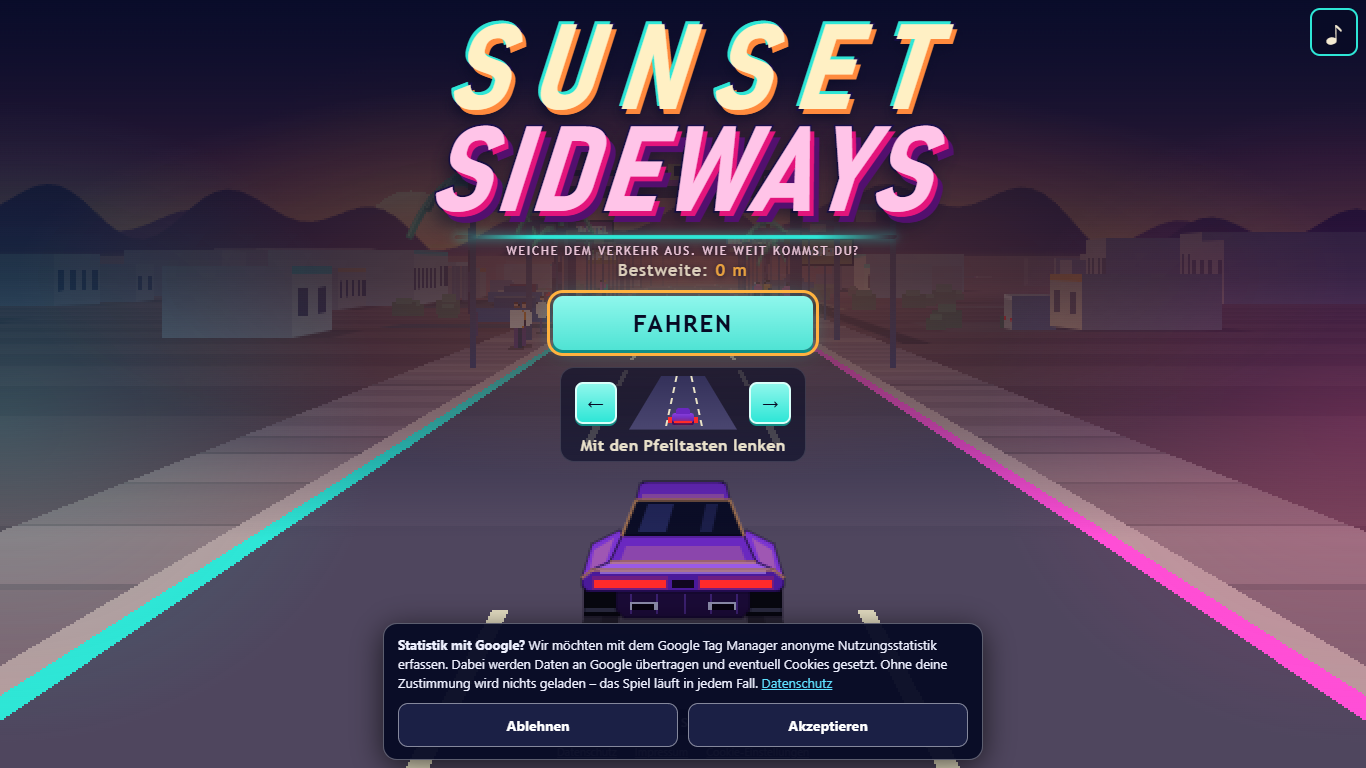
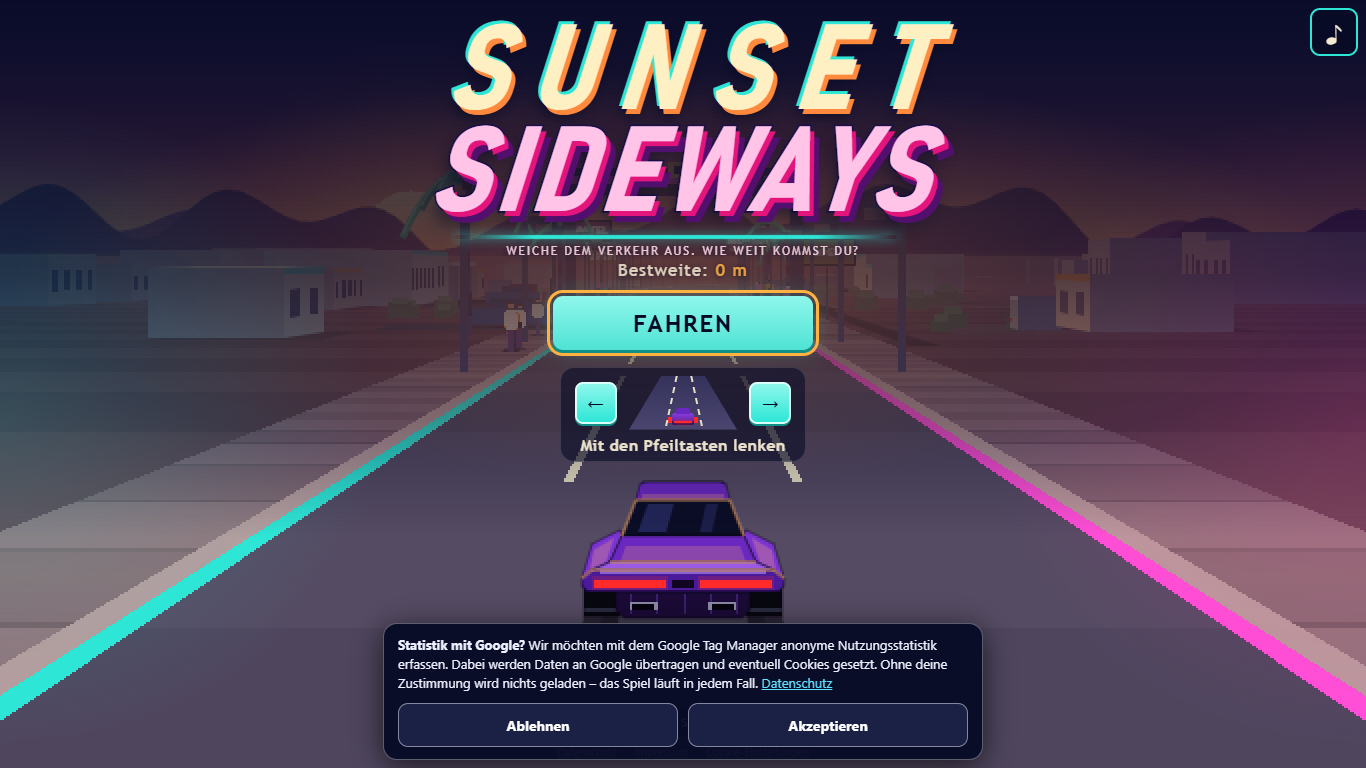
Begegnungen: Lkw, versetzte Baustelle, Pickup-Umweg; Hinweis am ersten Hindernis; Abnahmeskripte

diff --git a/src/gen/generator.ts b/src/gen/generator.ts
@@ -8,7 +8,13 @@ export interface GenWorld {
   s: number; t: number; obstacles: Obstacle[]; pickups: Pickup[]; nextId: number;
 }
 
-type Pattern = 'first' | 'single' | 'wall2' | 'stagger' | 'slalom' | 'weave' | 'chain';
+/**
+ * Begegnungen mit eigener Entscheidung:
+ * - truck: langsamer, breiter Lkw in einer Spur – überholen, Fluchtweg früh lesbar.
+ * - works: versetzte Baustelle, zwei Absperrungsreihen (zwei Entscheidungen), danach Zeit zum Neuausrichten.
+ * - detour: einfaches Hindernis plus Pickup in einer anderen Spur – der Umweg lohnt, ist aber freiwillig.
+ */
+export type Pattern = 'first' | 'single' | 'wall2' | 'stagger' | 'slalom' | 'weave' | 'chain' | 'truck' | 'works' | 'detour';
 type Group = 'fast' | 'mid' | 'slow';
 /** Tempoklasse einer Spur: statischer Block oder Verkehr mit festem Tempo (Lkw nur in der langsamen Klasse). */
 type LaneClass = 'static' | Group;
@@ -26,7 +32,7 @@ interface Candidate { objs: PlannedObj[]; gates: Gate[]; rows: number; endA: num
 
 export interface GenStat { pattern: Pattern; mult: number; fallback: boolean; anchor: number; gates: Gate[] }
 
-export interface GenOptions { record?: boolean; startS?: number }
+export interface GenOptions { record?: boolean; startS?: number; /** Nur die ursprünglichen Muster (feste Sprint-Aufnahme). */ classic?: boolean }
 
 export class Generator {
   private rng: () => number;
@@ -39,6 +45,8 @@ export class Generator {
   private queue: PickupType[] = [];
   private lastType: PickupType | null = null;
   private pickupCount = 0;
+  private curPat: Pattern = 'single';
+  private curLane = -1;
   /** Das erste Angebot jedes Versuchs ist Fliegen (ab 550 m nach dem ersten Ausweichmanöver). */
   private firstDone = false;
   readonly log: GenStat[] = [];
@@ -94,6 +102,8 @@ export class Generator {
   private pickPattern(t: number, km: number): Pattern {
     const f = (x: number) => Math.max(0, Math.min(1, x));
     const opts: [Pattern, number][] = [['single', 45 * (1 - 0.7 * f(km / 8))], ['stagger', 40]];
+    if (!this.opts.classic && t >= 6 && W('truck') > 0 && B.traffic.slow > 0) opts.push(['truck', 34]);
+    if (!this.opts.classic && t >= 14 && statics().length) opts.push(['works', 28]);
     if (t >= 12) opts.push(['wall2', 25]);
     if (t >= 20) opts.push(['slalom', 25 + 25 * f(km / 4)]);
     if (t >= 35) opts.push(['weave', 20 + 45 * f(km / 6)]);
@@ -110,7 +120,8 @@ export class Generator {
     const c = 3 - a - b;
     switch (p) {
       case 'first': return [[1]];                       // Mitte blockiert: links und rechts sind frei
-      case 'single': return [[a]];
+      case 'single': case 'truck': case 'detour': return [[a]];
+      case 'works': return [[a], [b]];
       case 'wall2': return [[b, c]];
       case 'stagger': return [[a], [b]];
       case 'slalom': {
@@ -155,6 +166,8 @@ export class Generator {
   private pickClass(pat: Pattern): LaneClass {
     const st = statics();
     if (pat === 'first') return st.length ? 'static' : (this.pickGroup() ?? 'static');
+    if (pat === 'truck' && W('truck') > 0) return 'slow';
+    if (pat === 'works' && st.length) return 'static';
     const wantStatic = this.rng() >= 0.65;
     if (wantStatic && st.length) return 'static';
     return this.pickGroup() ?? 'static';
@@ -162,7 +175,7 @@ export class Generator {
 
   private build(w: GenWorld, pat: Pattern, anchor: number): Candidate | null {
     const p = this.plan(w, anchor);
-    const rowGap = (B.gen.rowBase + B.gen.rowGain * Math.exp(-p.tArr / B.gen.rowTau)) * p.vNom * (pat === 'slalom' ? 0.95 : 1);
+    const rowGap = (B.gen.rowBase + B.gen.rowGain * Math.exp(-p.tArr / B.gen.rowTau)) * p.vNom * (pat === 'slalom' ? 0.95 : pat === 'works' ? 1.35 : 1);
     const rows = this.rowsFor(pat);
     const cls = this.laneClasses(w);
     const L = B.player.len;
@@ -176,11 +189,12 @@ export class Generator {
         used.add(lane);
         if (cls[lane] === null) cls[lane] = this.pickClass(pat);
         const lc = cls[lane] as LaneClass;
+        if ((pat === 'works' && lc !== 'static') || (pat === 'truck' && lc !== 'slow')) { bad = true; return; }   // reine Begegnung: sonst anderes Muster wählen
         const st = statics();
         const kinds = lc === 'static' ? (st.length ? st : (['baken'] as ObjKind[])) : GROUP_KINDS[lc];
         const picked = lc === 'static' ? kinds[this.int(kinds.length)] : this.pickKind(kinds);
         // Erste Begegnung (Mitte blockiert): immer die breite Absperrung – sie ist im Bild weit früher erkennbar als eine schmale Bake (0,9 m)
-        const kind = pat === 'first' && lc === 'static' && kinds.includes('barrier') ? 'barrier' : picked;
+        const kind = (pat === 'first' || pat === 'works') && lc === 'static' && kinds.includes('barrier') ? 'barrier' : pat === 'truck' && lc === 'slow' && kinds.includes('truck') ? 'truck' : picked;
         const def = KINDS[kind];
         const x = laneX(lane);
         const half = def.w / 2 + B.player.width / 2 + B.gen.blockMargin;
@@ -219,6 +233,8 @@ export class Generator {
       const tArr = this.plan(w, base + gap0).tArr;
       const km = (base + gap0) / 1000;
       const pats = [this.pickPattern(tArr, km), this.pickPattern(tArr, km), 'single' as Pattern];
+      // Ist ein Power-up fällig, wird die Begegnung öfter zum freiwilligen Umweg (Hindernis plus Pickup in einer anderen Spur)
+      if (!this.opts.classic && this.firstDone && B.pickups.freq > 0 && tArr >= this.nextPickupT && this.rng() < 0.55 && this.queue[0] !== 'magnet') pats[0] = 'detour';
       // Ist das Magnetfeld an der Reihe, braucht die Begegnung mehr Vorlauf (Magnet-Pickup und Folge-Pickup davor)
       if (this.firstDone && this.queue.length === 0) this.refillQueue();
       const mults = this.firstDone && tArr >= this.nextPickupT && this.queue[0] === 'magnet' ? [1.9, 2.4, 3.5] : B.gen.mults;
@@ -246,11 +262,12 @@ export class Generator {
     for (const o of c.objs) {
       w.obstacles.push({ id: w.nextId++, kind: o.kind, x: laneX(o.lane), z: o.z, vz: o.vz, hit: false, knockT: 0, knockVx: 0 });
     }
+    this.curPat = pat; this.curLane = c.objs[0]?.lane ?? -1;
     const pk = this.placePickup(w, c, anchor);
     if (pk) r = pk;
     this.reach = r.reach;
     this.sEnd = r.sEnd;
-    this.lastEnd = c.endA;
+    this.lastEnd = c.endA + (pat === 'works' ? 0.9 * this.plan(w, c.endA).vNom : 0);     // nach der Baustelle: Zeit zum Neuausrichten
     this.encounters++;
     if (this.opts.record) this.log.push({ pattern: pat, mult, fallback: mult >= 5, anchor, gates: c.gates });
   }
@@ -319,8 +336,9 @@ export class Generator {
     const order: PickupType[] = this.firstDone ? this.queue : ['glide'];
     for (let qi = 0; qi < order.length; qi++) {
       const type = order[qi];
-      const lanes = [0, 1, 2];
+      let lanes = [0, 1, 2];
       for (let i = lanes.length - 1; i > 0; i--) { const j = this.int(i + 1); [lanes[i], lanes[j]] = [lanes[j], lanes[i]]; }
+      if (this.curPat === 'detour') lanes = lanes.filter((l) => l !== this.curLane);      // der Umweg liegt neben dem Hindernis, nicht in dessen Spur
       for (const lane of lanes) {
         let zp = first - 1.3 * p.vNom;
         let musts: Gate[] = [];

diff --git a/tests/encounters.test.ts b/tests/encounters.test.ts
@@ -1,0 +1,96 @@
+import { describe, expect, it } from 'vitest';
+import { BALANCE as B } from '../src/config/balance';
+import { speedAtDist } from '../src/core/speed';
+import { Generator, type GenWorld, type Pattern } from '../src/gen/generator';
+import { KINDS, laneOf, type Obstacle, type Pickup } from '../src/sim/world';
+
+interface Enc { pattern: Pattern; anchor: number; obs: Obstacle[]; pk: Pickup[]; t: number }
+
+/** Lässt den Generator mit nominaler Fahrt (Tempokurve, kein Ausweichen nötig) 150 s laufen und ordnet neue Objekte der jeweiligen Begegnung zu. */
+function record(seed: number, seconds = 150): Enc[] {
+  const g = new Generator(seed, { record: true });
+  const w: GenWorld = { s: 0, t: 0, obstacles: [], pickups: [], nextId: 1 };
+  const out: Enc[] = []; const seenO = new Set<number>(), seenP = new Set<number>();
+  const take = () => {
+    const n = g.log.length;
+    if (n > out.length) {
+      const e: Enc = { pattern: g.log[n - 1].pattern, anchor: g.log[n - 1].anchor, obs: [], pk: [], t: w.t };
+      for (const o of w.obstacles) if (!seenO.has(o.id)) { seenO.add(o.id); e.obs.push({ ...o }); }
+      for (const p of w.pickups) if (!seenP.has(p.id)) { seenP.add(p.id); e.pk.push({ ...p }); }
+      out.push(e);
+    }
+  };
+  g.update(w); take();
+  while (w.t < seconds) {
+    const v = speedAtDist(w.s) / 3.6;
+    for (const o of w.obstacles) o.z += o.vz * B.dt;
+    w.s += v * B.dt; w.t += B.dt;
+    const before = g.log.length; g.update(w);
+    if (g.log.length > before) take();
+    w.obstacles = w.obstacles.filter((o) => o.z > w.s - 40);
+  }
+  return out;
+}
+const all = Array.from({ length: 40 }, (_, i) => record(i + 1));
+const flat = all.flat();
+const of = (p: Pattern) => flat.filter((e) => e.pattern === p);
+
+describe('Begegnungen mit eigener Entscheidung', () => {
+  it('Lkw, Baustelle und Umweg kommen in 40 Läufen à 150 s regelmäßig vor und wechseln mit anderen Mustern', () => {
+    for (const p of ['truck', 'works', 'detour'] as Pattern[]) expect(of(p).length, p).toBeGreaterThanOrEqual(15);
+    // Abwechslung: nie dieselbe Spezialbegegnung fünfmal hintereinander
+    for (const run of all) { let streak = 1; for (let i = 1; i < run.length; i++) { streak = run[i].pattern === run[i - 1].pattern ? streak + 1 : 1; expect(streak).toBeLessThanOrEqual(5); } }
+  });
+
+  it('Lkw: breiter, langsamer Lkw in einer Spur, die anderen Spuren bleiben frei; Vorbeifahrzeit gemessen und Messwert dokumentiert (kein Dauerüberholen bei diesem Tempo)', () => {
+    const encs = of('truck').filter((e) => e.obs.some((o) => o.kind === 'truck'));
+    expect(encs.length / of('truck').length).toBeGreaterThan(0.8);       // fast immer ein Lkw (sonst belegte die Spur schon anderer Verkehr)
+    let minPass = Infinity, minEarly = Infinity;
+    for (const e of encs) {
+      const trucks = e.obs.filter((o) => o.kind === 'truck');
+      expect(new Set(e.obs.map((o) => laneOf(o.x))).size).toBe(1);        // genau eine Spur belegt
+      for (const o of trucks) {
+        expect(o.vz * 3.6).toBeLessThan(B.traffic.mid);                   // langsamer als der übrige Verkehr
+        const v = speedAtDist(e.anchor) / 3.6;
+        const pass = (KINDS.truck.len + B.player.len) / (v - o.vz);   // Zeit, in der der Wagen auf Höhe des Lkw ist
+        minPass = Math.min(minPass, pass); if (e.anchor < 1500) minEarly = Math.min(minEarly, pass);
+      }
+    }
+    console.log(`Lkw-Vorbeifahrzeit (kürzeste): frühes Spiel < 1,5 km ${minEarly.toFixed(2)} s, überhaupt ${minPass.toFixed(2)} s`);
+    expect(minEarly).toBeGreaterThanOrEqual(0.1);
+  });
+
+  it('Baustelle: zwei Absperrungsreihen in verschiedenen Spuren, zeitlich getrennt (≥ 1,0 s), danach Erholung', () => {
+    for (const e of of('works')) {
+      const bars = e.obs.filter((o) => o.kind === 'barrier');
+      expect(bars.length).toBeGreaterThanOrEqual(2);
+      const [a, b] = [...bars].sort((x, y) => x.z - y.z);
+      expect(laneOf(a.x)).not.toBe(laneOf(b.x));
+      const v = speedAtDist(e.anchor) / 3.6;
+      expect((b.z - a.z) / v, `Reihenabstand bei ${e.anchor.toFixed(0)} m`).toBeGreaterThanOrEqual(1.0);
+    }
+    // Erholung: die nächste Begegnung beginnt mindestens 0,9 s nach dem Ende der Baustelle
+    let checked = 0;
+    for (const run of all) for (let i = 0; i < run.length - 1; i++) {
+      if (run[i].pattern !== 'works') continue;
+      const lastZ = Math.max(...run[i].obs.map((o) => o.z));
+      const nextFirst = Math.min(...run[i + 1].obs.map((o) => o.z));
+      const v = speedAtDist(lastZ) / 3.6;
+      expect((nextFirst - lastZ) / v).toBeGreaterThanOrEqual(0.9); checked++;
+    }
+    expect(checked).toBeGreaterThan(10);
+  });
+
+  it('Umweg: Pickup liegt neben dem Hindernis (nicht in dessen Spur) und höchstens 2,5 s davor; der Standardweg bleibt die geprüfte Kette', () => {
+    const encs = of('detour').filter((e) => e.pk.length > 0);
+    expect(encs.length).toBeGreaterThanOrEqual(10);
+    for (const e of encs) {
+      const lane = laneOf(e.obs[0].x);
+      const pk = e.pk[0];
+      expect(laneOf(pk.x)).not.toBe(lane);
+      const v = speedAtDist(e.anchor) / 3.6;
+      expect((e.obs[0].z - pk.z) / v).toBeLessThanOrEqual(2.5);
+      expect((e.obs[0].z - pk.z) / v).toBeGreaterThan(0.5);
+    }
+  });
+});

diff --git a/src/game.ts b/src/game.ts
@@ -534,7 +534,21 @@ export class Game {
     }
     if (this.tutorialDone) { if (!this.el.hint.hidden) this.el.hint.hidden = true; return; }
     const inLane = Math.abs(sim.q - o.x) < 2.6;
-    this.el.hint.hidden = !(inLane && !o.hit && o.z > sim.s - 1);
+    const show = inLane && !o.hit && o.z > sim.s - 1;
+    this.el.hint.hidden = !show;
+    if (show) this.placeHint(o.x, o.z, o.kind === 'truck' ? 4.2 : 2.4);
+  }
+
+  /** Der Hinweis sitzt knapp über dem Hindernis und wandert mit ihm nach unten: nah am Gefahrenort, ohne es zu verdecken (Grenzen: unter dem HUD, über dem Wagen). */
+  private placeHint(x: number, z: number, h: number): void {
+    const p = this.renderer.screenAt(x, z, h), v = this.renderer.viewSize;
+    if (!p || !v.w) return;
+    const st = this.el.hint.style;
+    const k = this.canvas.clientWidth / v.w;                          // Zeichenfläche → CSS-Pixel (die Zeichenauflösung kann kleiner sein)
+    const top = Math.min(v.h * 0.56, Math.max(v.hy + 26 / k, p.sy - 16 / k));
+    st.left = Math.round(Math.min(this.canvas.clientWidth - 110, Math.max(110, p.sx * k))) + 'px';
+    st.top = Math.round(top * k) + 'px';
+    this.el.hint.classList.add('at');
   }
 
   private pickupKey(type: string, id: number, z: number): string { return type === 'glide' ? `glide@${Math.round(z)}` : `${type}#${id}`; }

diff --git a/src/render/renderer.ts b/src/render/renderer.ts
@@ -160,6 +160,15 @@ export class Renderer {
     };
   }
 
+  /** Bildposition (CSS-Pixel) eines Streckenpunkts im letzten Bild, z. B. um Hinweise an ein Hindernis zu heften. */
+  screenAt(x: number, z: number, h = 0): { sx: number; sy: number } | null {
+    if (!this.L.w || !this.road) return null;
+    const p = this.projectWorld(this.lastZc, this.road.center(z) + x, z, h);
+    return { sx: p.sx, sy: p.sy };
+  }
+
+  get viewSize(): { w: number; h: number; hy: number } { return { w: this.L.w, h: this.L.h, hy: this.L.hy }; }
+
   private lat(z: number, zc: number): number { return this.road.center(z) - this.camXw - this.camHead * (z - zc); }
 
   private fade(d: number, extra = 1): number {

diff --git a/tests/helpers/recordRoute.ts b/tests/helpers/recordRoute.ts
@@ -14,7 +14,7 @@ const r2 = (x: number): number => Math.round(x * 100) / 100;
 export function recordSprintRoute(extra = 300): RouteEntry[] {
   applyConfig(SPRINT_CONFIG, false);
   try {
-    const g = new Generator(SPRINT_SEED, { startS: 0 });
+    const g = new Generator(SPRINT_SEED, { startS: 0, classic: true });
     const w: GenWorld = { s: 0, t: 0, obstacles: [], pickups: [], nextId: 1 };
     const out: RouteEntry[] = [];
     const seenO = new Set<number>(), seenP = new Set<number>();

diff --git a/src/ui/style.css b/src/ui/style.css
@@ -283,3 +283,6 @@ html.touch:not([data-phase="running"]) #hint, html.touch:not([data-phase="runnin
   html.touch #consent { left: auto; right: calc(var(--sar, 0px) + 10px); transform: none; width: min(46vw, 400px); bottom: calc(var(--sab, 0px) + 8px); }
   html.touch #screen-start { padding-bottom: calc(var(--sab) + 4px); }
 }
+
+/* „Weiche aus“ wandert mit dem ersten Hindernis (Position per Skript); ohne Position bleibt die feste Lage */
+#hint.at { transform: translate(-50%, -100%); }
